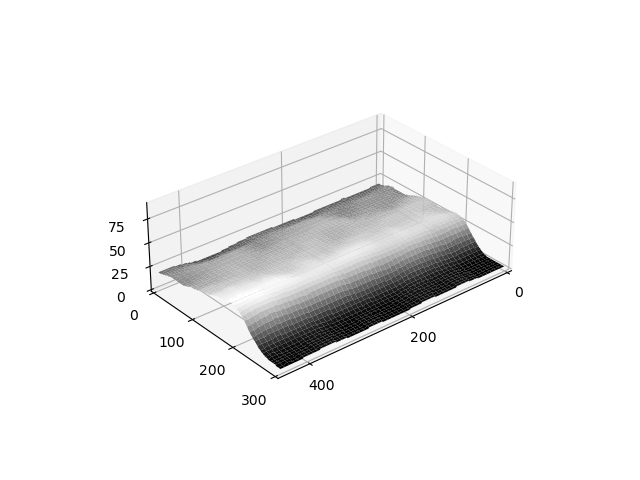
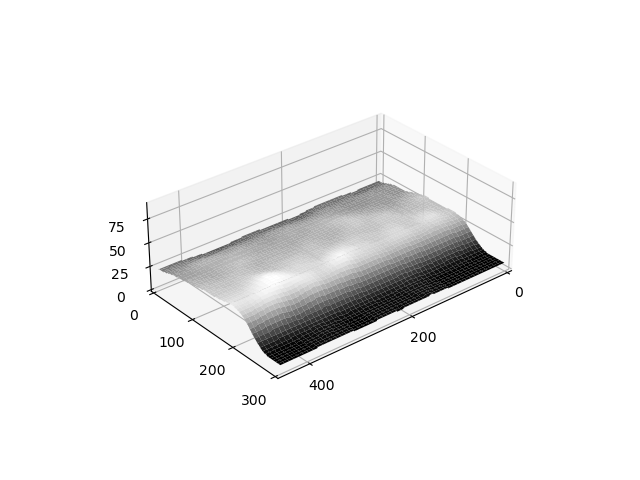
updated slopes

diff --git a/slope_test.py b/slope_test.py
@@ -46,7 +46,7 @@ def convolve(image, kernel, scale):
 
             # slope = int((slope1+slope3)/2)
             slope = int((slope1+slope2+slope3+slope4)/4)
-            image_decreased_2[(y-pad)//stride-1, (x-pad)//stride - 1] = slope
+            image_decreased_2[(y-pad)//stride-1, (x-pad)//stride - 1] = slope + 7
             # image_decreased_2[y//2-pad,x//2-pad] = slope
             # image_decreased_2[int((y-pad)//2-pad//2),int((x-pad)//2-pad//2)] = slope
 
@@ -93,21 +93,21 @@ def correct_image(blur, slope_range):
     height, width = blur[slope_range[0]:slope_range[1], :].shape  # y, x
     blur = blur[slope_range[0]:slope_range[1], :]
 
-    # 10 height
-    for x in range(height):
-        for y in range(width):
-            blur[x][y] = blur[x][y] - int(35 - x * 35/576)
-            if (blur[x][y] > 150):
-                blur[x][y] = 0
-            print(blur[x][y])
-            
-    # # 20, 30 height
+    # # 10 height
     # for x in range(height):
     #     for y in range(width):
-    #         blur[x][y] = blur[x][y] - int(25 - y * 25/576)
+    #         blur[x][y] = blur[x][y] - int(35 - x * 35/576)
     #         if (blur[x][y] > 150):
     #             blur[x][y] = 0
     #         print(blur[x][y])
+            
+    # 20, 30 height
+    for x in range(height):
+        for y in range(width):
+            blur[x][y] = blur[x][y] - int(35 - y * 35/576)
+            if (blur[x][y] > 150):
+                blur[x][y] = 0
+            print(blur[x][y])
 
     return blur
 
@@ -137,12 +137,12 @@ def estimate_slope(z):
 
 def main():
 
-    vor_image_gray = cv2.imread('images_10/voro_lidar_img_2023_09_16_06_41_42_01800.jpg', 0).astype(np.uint8)   # 10 deg
-    slope_range = (50, 230)   # 10 deg
+    # vor_image_gray = cv2.imread('images_10/voro_lidar_img_2023_09_16_06_41_42_01800.jpg', 0).astype(np.uint8)   # 10 deg
+    # slope_range = (50, 230)   # 10 deg
     # vor_image_gray = cv2.imread('images_20/voro_lidar_img_2023_09_16_06_54_29_02000.jpg', 0).astype(np.uint8)   # 20 deg
     # slope_range = (0, 200)   # 20 deg
-    # vor_image_gray = cv2.imread('images_30/voro_lidar_img_2023_09_16_07_04_35_02300.jpg', 0).astype(np.uint8)   # 30 deg
-    # slope_range = (50, 200)   # 30 deg
+    vor_image_gray = cv2.imread('images_30/voro_lidar_img_2023_09_16_07_04_35_02300.jpg', 0).astype(np.uint8)   # 30 deg
+    slope_range = (50, 200)   # 30 deg
     # vor_image_gray = vor_image_gray[0:400][:]
     # vor_image_gray = vor_image_gray[0:400, 0:400]
     vor_image_gray = vor_image_gray[0:300, 0:450]
